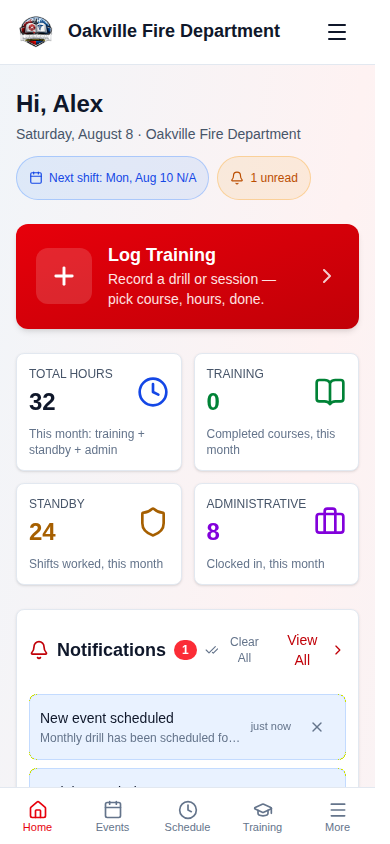
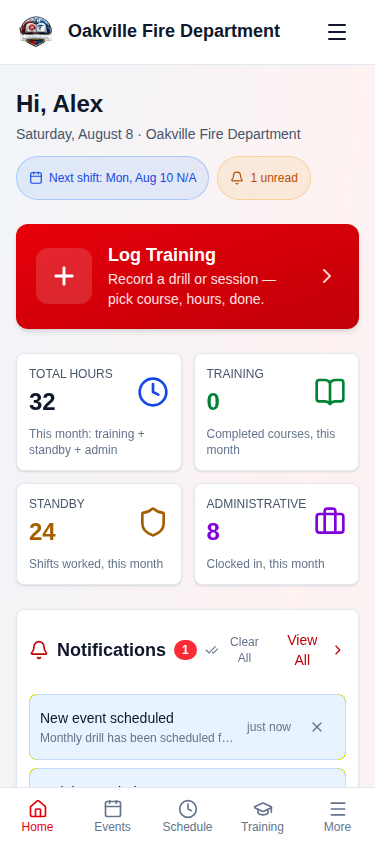
fix(mobile): enforce a 12px minimum text size on phones
Sub-12px text goes to 0 on every route. Combined with the tap-target work, both
budgets in mobile-presentation.spec.ts are now 0 everywhere, so they are hard
rules rather than budgets: no new control below the touch minimum, and no
ordinary UI text below 12px.

Measuring showed this was far more contained than the tap targets — nearly
every instance came from four sources repeated on every page: the bottom
navigation labels, the footer tagline, the notification count badge, and
relative timestamps. One of those was a genuine mistake: the dashboard
timestamps read `text-[11px] sm:text-xs`, which makes the text *smaller* on the
smaller screen.

Rather than edit 186 call sites, the 12px floor is applied centrally by
overriding text-[10px] and text-[11px] below md — unlayered, like the dvh rules,
so it beats @layer utilities without !important. Desktop is untouched.

Deliberately scoped to those two sizes. text-[9px] and below are chart axis
labels, day cells in the pattern builder's month grid, and a simulated barcode
on the label-print preview: dense fixed-size layouts where 12px would break the
grid rather than help anyone read it. Those stay, and the exemption is
documented at both the CSS rule and the spec.

This is a readability change aimed at the actual audience — volunteer members
across a wide age range, the same reason the theme ships a high-contrast mode.
Verified visually as well as by measurement, since the risk here was 12px text
[…]

diff --git a/frontend/src/e2e/mobile-presentation.spec.ts b/frontend/src/e2e/mobile-presentation.spec.ts
@@ -10,11 +10,11 @@ import { signIn } from './helpers';
  *   so these assert against zero.
  *
  *   Ratcheted budgets — the assertion is `<=` a per-route count, so numbers can
- *   never grow but any improvement passes. These started as a backlog (212 tap
- *   targets under 44px across the app) and were ratcheted down as it was
- *   cleared. maxSmallTargets is now 0 everywhere, which makes it a hard rule
- *   rather than a budget: no new control may ship below the touch minimum.
- *   Sub-12px text still carries a real budget. This mirrors how
+ *   never grow but any improvement passes. These started as a real backlog —
+ *   212 tap targets under 44px and ~200 sub-12px text nodes — and were
+ *   ratcheted down as it was cleared. Both are now 0 on every route, which
+ *   makes them hard rules rather than budgets: no new control may ship below
+ *   the touch minimum, and no ordinary UI text below 12px. This mirrors how
  *   `vitest.config.ts` treats coverage thresholds.
  *
  * Why this catches real defects rather than tautologies: the mock in helpers.ts
@@ -39,7 +39,13 @@ interface RouteCheck {
    * since a native checkbox is 16px by design and cannot be padded.
    */
   maxSmallTargets: number;
-  /** Text nodes rendering below 12px. Ratchet down, never up. */
+  /**
+   * Text nodes rendering below 12px. Now 0 everywhere — a failure means new
+   * copy needs a mobile size, not a raised number. The 12px floor is applied
+   * centrally in index.css for text-[10px]/text-[11px]; genuinely dense
+   * fixed-size labels (chart axes, the pattern-builder grid) use smaller
+   * arbitrary values and are deliberately exempt there.
+   */
   maxTinyText: number;
   /**
    * Renders only layout chrome under the E2E mock — the permission gate hides
@@ -50,35 +56,35 @@ interface RouteCheck {
 }
 
 const ROUTES: RouteCheck[] = [
-  { path: '/dashboard', maxSmallTargets: 0, maxTinyText: 9 },
-  { path: '/events', maxSmallTargets: 0, maxTinyText: 7 },
-  { path: '/members', maxSmallTargets: 0, maxTinyText: 7 },
-  { path: '/members/admin', maxSmallTargets: 0, maxTinyText: 7, chromeOnly: true },
-  { path: '/documents', maxSmallTargets: 0, maxTinyText: 7 },
-  { path: '/training/my-training', maxSmallTargets: 0, maxTinyText: 7 },
-  { path: '/training/submit', maxSmallTargets: 0, maxTinyText: 7 },
-  { path: '/training/courses', maxSmallTargets: 0, maxTinyText: 7 },
-  { path: '/training/programs', maxSmallTargets: 0, maxTinyText: 7 },
-  { path: '/scheduling', maxSmallTargets: 0, maxTinyText: 7 },
-  { path: '/scheduling/reports', maxSmallTargets: 0, maxTinyText: 7, chromeOnly: true },
-  { path: '/admin-hours', maxSmallTargets: 0, maxTinyText: 7 },
-  { path: '/notifications?tab=inbox', maxSmallTargets: 0, maxTinyText: 6 },
-  { path: '/inventory', maxSmallTargets: 0, maxTinyText: 7 },
-  { path: '/inventory/my-equipment', maxSmallTargets: 0, maxTinyText: 7 },
-  { path: '/apparatus', maxSmallTargets: 0, maxTinyText: 7 },
-  { path: '/apparatus-basic', maxSmallTargets: 0, maxTinyText: 7 },
-  { path: '/locations', maxSmallTargets: 0, maxTinyText: 7 },
-  { path: '/facilities', maxSmallTargets: 0, maxTinyText: 7 },
-  { path: '/elections', maxSmallTargets: 0, maxTinyText: 7 },
-  { path: '/minutes', maxSmallTargets: 0, maxTinyText: 7 },
-  { path: '/action-items', maxSmallTargets: 0, maxTinyText: 7 },
-  { path: '/forms', maxSmallTargets: 0, maxTinyText: 7, chromeOnly: true },
-  { path: '/store', maxSmallTargets: 0, maxTinyText: 7 },
-  { path: '/prospective-members', maxSmallTargets: 0, maxTinyText: 7, chromeOnly: true },
-  { path: '/analytics', maxSmallTargets: 0, maxTinyText: 9 },
-  { path: '/messages', maxSmallTargets: 0, maxTinyText: 7, chromeOnly: true },
-  { path: '/settings', maxSmallTargets: 0, maxTinyText: 7, chromeOnly: true },
-  { path: '/profile', maxSmallTargets: 0, maxTinyText: 9 },
+  { path: '/dashboard', maxSmallTargets: 0, maxTinyText: 0 },
+  { path: '/events', maxSmallTargets: 0, maxTinyText: 0 },
+  { path: '/members', maxSmallTargets: 0, maxTinyText: 0 },
+  { path: '/members/admin', maxSmallTargets: 0, maxTinyText: 0, chromeOnly: true },
+  { path: '/documents', maxSmallTargets: 0, maxTinyText: 0 },
+  { path: '/training/my-training', maxSmallTargets: 0, maxTinyText: 0 },
+  { path: '/training/submit', maxSmallTargets: 0, maxTinyText: 0 },
+  { path: '/training/courses', maxSmallTargets: 0, maxTinyText: 0 },
+  { path: '/training/programs', maxSmallTargets: 0, maxTinyText: 0 },
+  { path: '/scheduling', maxSmallTargets: 0, maxTinyText: 0 },
+  { path: '/scheduling/reports', maxSmallTargets: 0, maxTinyText: 0, chromeOnly: true },
+  { path: '/admin-hours', maxSmallTargets: 0, maxTinyText: 0 },
+  { path: '/notifications?tab=inbox', maxSmallTargets: 0, maxTinyText: 0 },
+  { path: '/inventory', maxSmallTargets: 0, maxTinyText: 0 },
+  { path: '/inventory/my-equipment', maxSmallTargets: 0, maxTinyText: 0 },
+  { path: '/apparatus', maxSmallTargets: 0, maxTinyText: 0 },
+  { path: '/apparatus-basic', maxSmallTargets: 0, maxTinyText: 0 },
+  { path: '/locations', maxSmallTargets: 0, maxTinyText: 0 },
+  { path: '/facilities', maxSmallTargets: 0, maxTinyText: 0 },
+  { path: '/elections', maxSmallTargets: 0, maxTinyText: 0 },
+  { path: '/minutes', maxSmallTargets: 0, maxTinyText: 0 },
+  { path: '/action-items', maxSmallTargets: 0, maxTinyText: 0 },
+  { path: '/forms', maxSmallTargets: 0, maxTinyText: 0, chromeOnly: true },
+  { path: '/store', maxSmallTargets: 0, maxTinyText: 0 },
+  { path: '/prospective-members', maxSmallTargets: 0, maxTinyText: 0, chromeOnly: true },
+  { path: '/analytics', maxSmallTargets: 0, maxTinyText: 0 },
+  { path: '/messages', maxSmallTargets: 0, maxTinyText: 0, chromeOnly: true },
+  { path: '/settings', maxSmallTargets: 0, maxTinyText: 0, chromeOnly: true },
+  { path: '/profile', maxSmallTargets: 0, maxTinyText: 0 },
 ];
 
 /** iPhone 14/15 class — the narrow end of what members actually carry. */

diff --git a/frontend/src/styles/index.css b/frontend/src/styles/index.css
@@ -1200,6 +1200,29 @@ option {
   color: #111;
 }
 
+/* Minimum readable text size on phones.
+ *
+ * The app is used by volunteer members across a wide age range — the same
+ * reason the theme ships a high-contrast mode — and 10-11px captions, badge
+ * counts and tab labels are genuinely hard to read at arm's length on a phone.
+ * This lifts the two arbitrary sizes that appear in ordinary UI to the 12px
+ * floor (`text-xs`) below md, leaving desktop untouched.
+ *
+ * Deliberately scoped to 10px and 11px. The handful of smaller values —
+ * text-[9px] and below — are chart axis labels, day cells in the pattern
+ * builder's month grid, and a simulated barcode on the label-print preview.
+ * Those are dense fixed-size layouts, not prose, and forcing them to 12px
+ * would break the grid rather than help anyone read it.
+ *
+ * Unlayered like the dvh rules above, so it overrides `@layer utilities`
+ * without !important. */
+@media (max-width: 767px) {
+  .text-\[10px\],
+  .text-\[11px\] {
+    font-size: 12px;
+  }
+}
+
 /* Dynamic viewport height for the screen-height utilities.
  *
  * On mobile Safari `100vh` is the LARGEST viewport — the height with the URL
